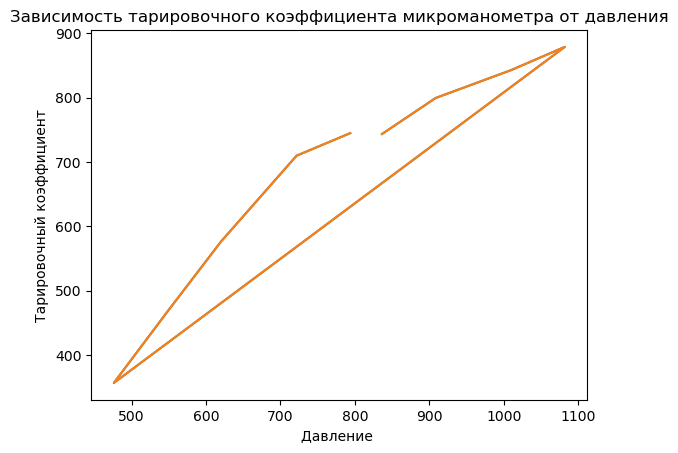
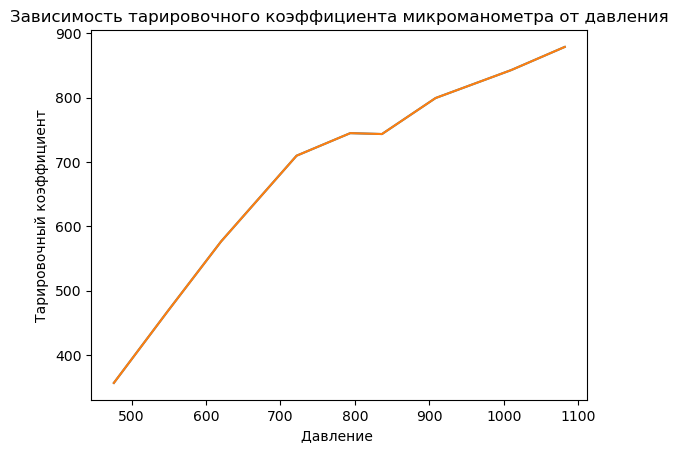
fix add data sort for plot

diff --git a/laba.py b/laba.py
@@ -62,8 +62,13 @@ def eval_mean_k():
     return round(sum(k) / len(k), 1)
 
 def save_image():
-    dp = eval_table()[2]
-    k =  eval_table()[-1]
+    data = []
+    for dp_i, k_i in zip(eval_table()[2], eval_table()[-1]):
+        data.append([dp_i, k_i])
+    data.sort(key=lambda el: el[0])
+    dp = list(map(lambda el: el[0], data))
+    k = list(map(lambda el: el[1], data))
+    # dp, k = eval_table()[2], eval_table()[-1]
     plt.plot(dp, k)
     plt.xlabel('Давление ')
     plt.ylabel('Тарировочный коэффициент')
